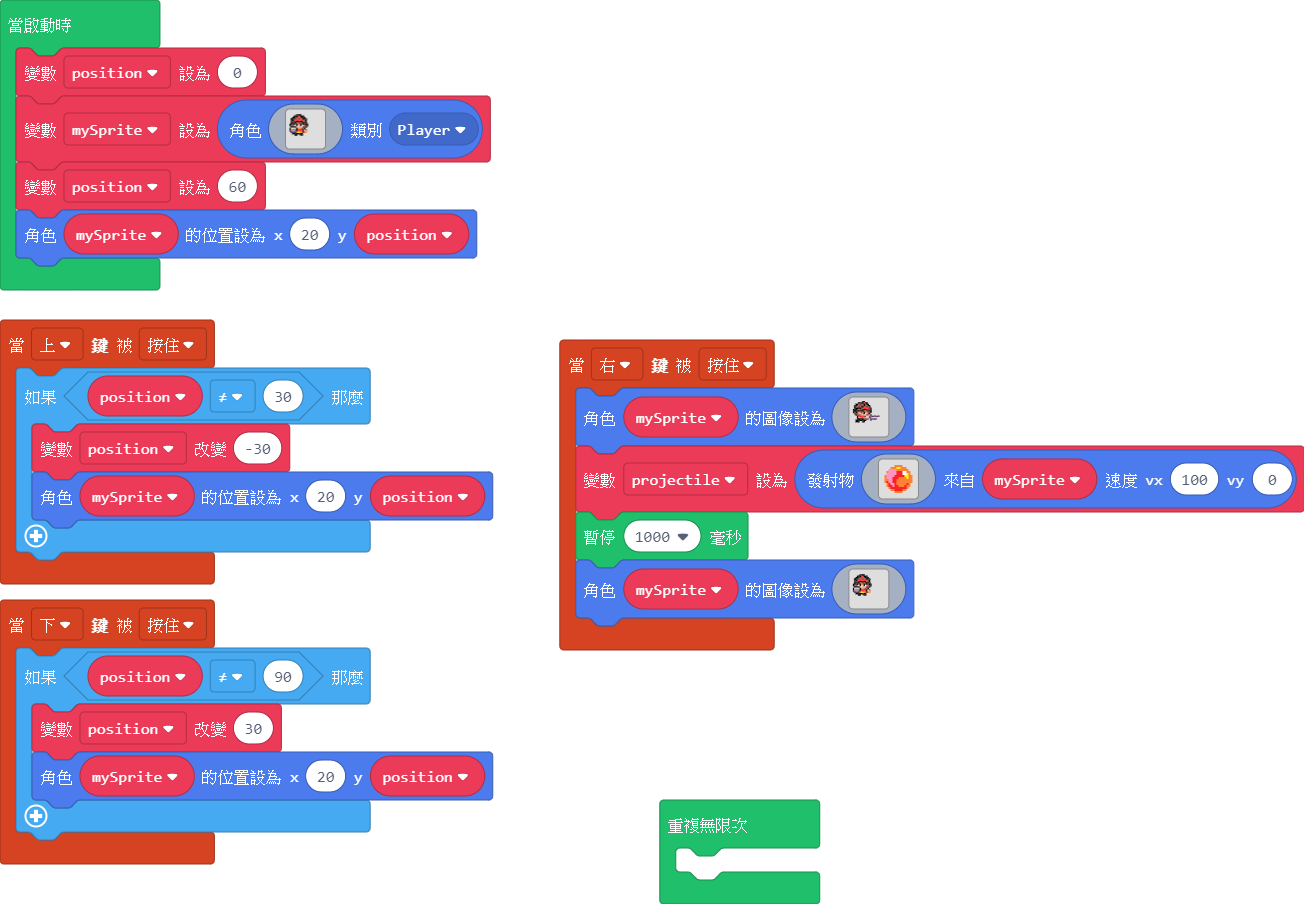
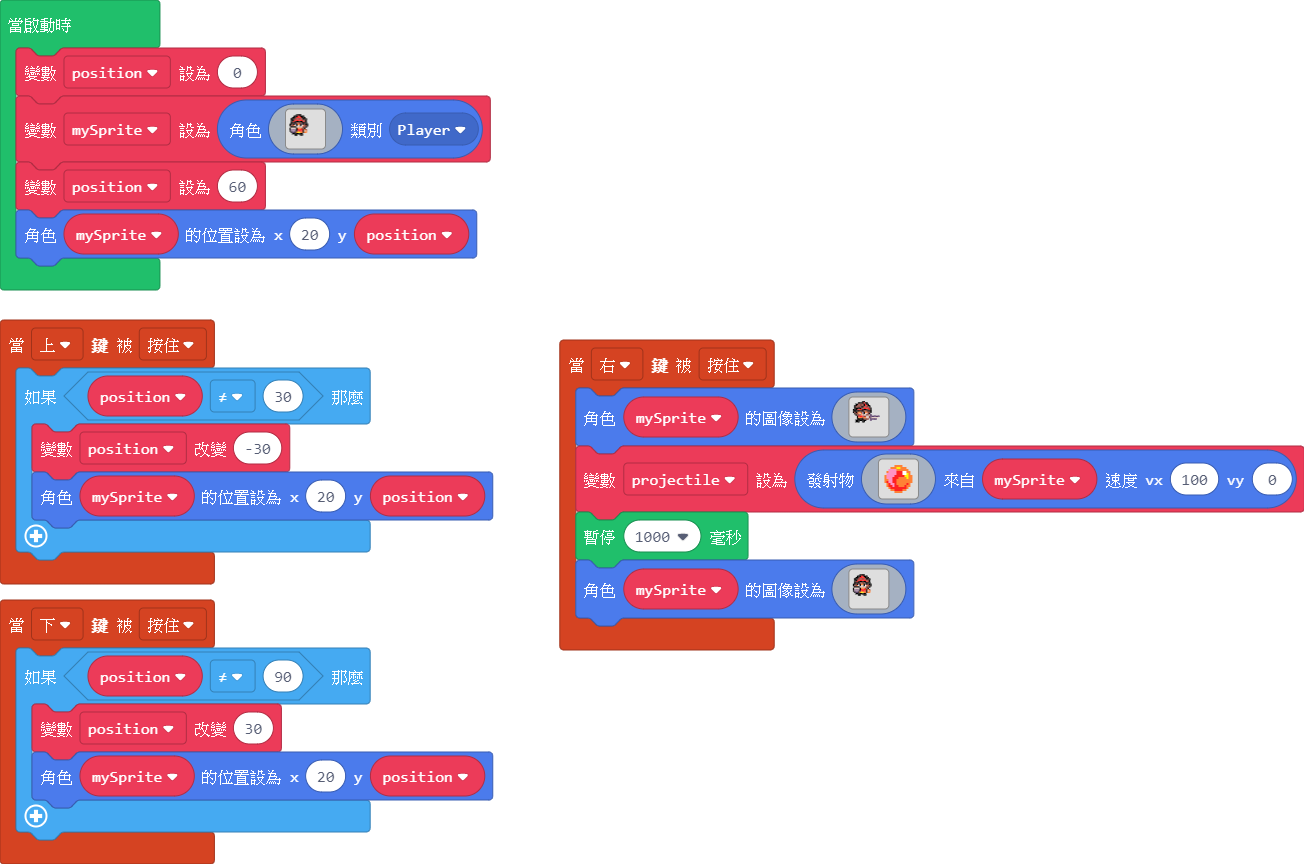
Update main.blocks, main.ts

Changed region(s): [[0.0, 0.0, 0.3988, 1.0], [0.4294, 0.375, 1.0, 0.7812], [0.4908, 0.875, 0.6442, 1.0]]

diff --git a/main.ts b/main.ts
@@ -115,6 +115,3 @@ f b b b b f 2 2 2 2 f d 4 . . . . . . . . . . .
 `, SpriteKind.Player)
 position = 60
 mySprite.setPosition(20, position)
-forever(function () {
-	
-})
